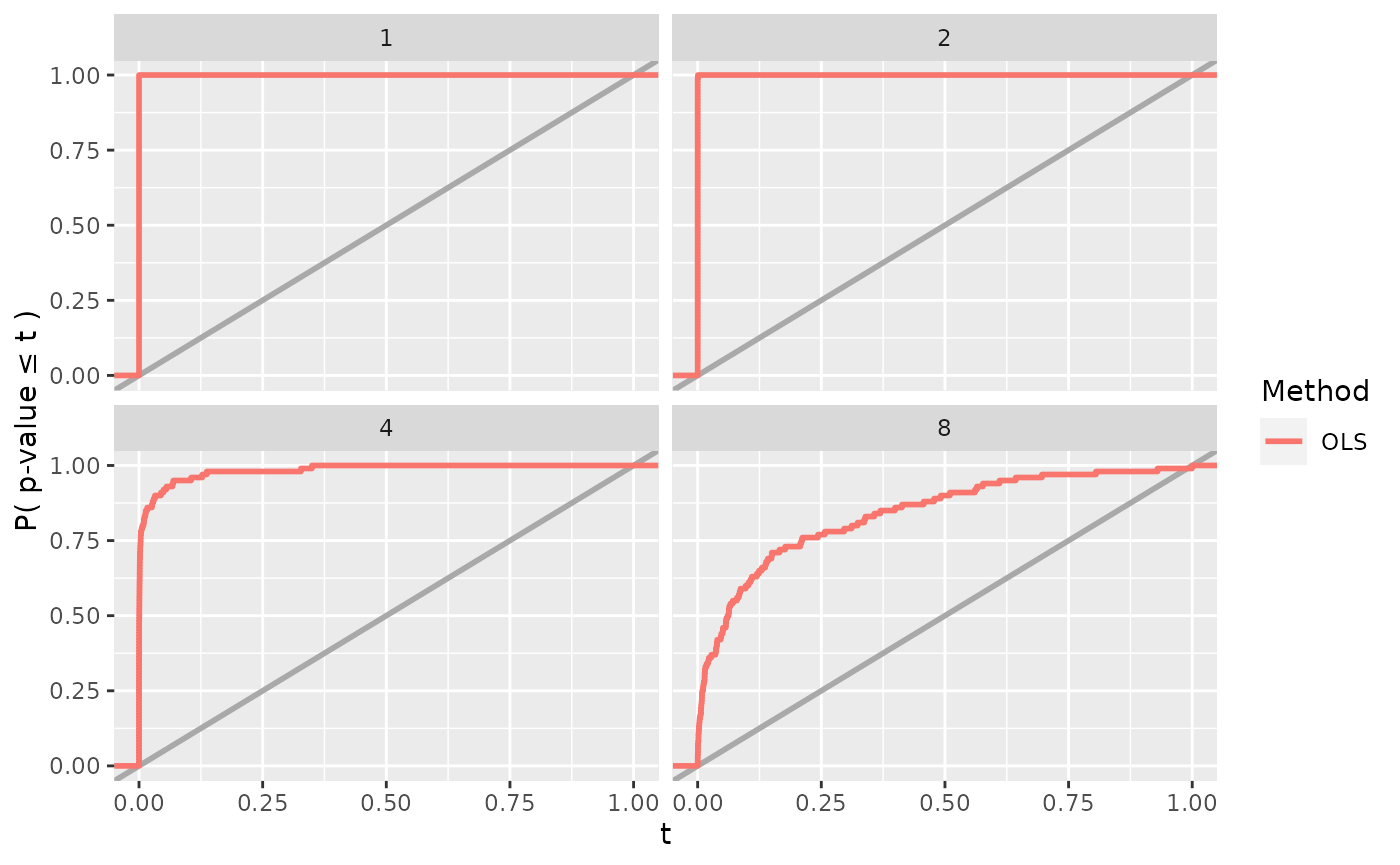
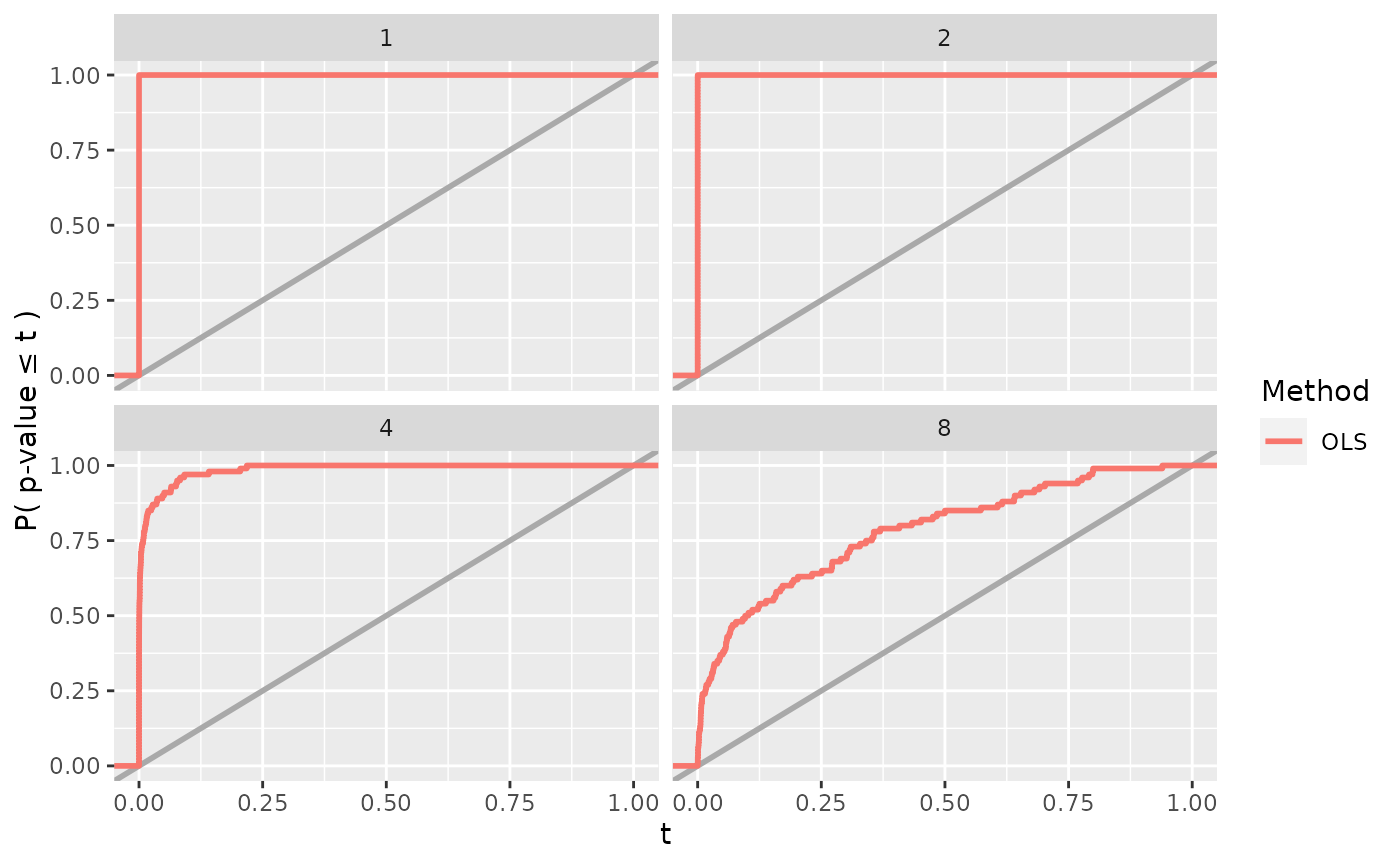
Built site for simChef: 0.0.0.9000@2746a39

diff --git a/articles/simChef.html b/articles/simChef.html
@@ -269,20 +269,20 @@
 <div class="sourceCode" id="cb14"><pre class="downlit sourceCode r">
 <code class="sourceCode R"><span class="va">results</span> <span class="op">&lt;-</span> <span class="va">experiment</span><span class="op">$</span><span class="fu">run</span><span class="op">(</span>n_reps <span class="op">=</span> <span class="fl">100</span>, save <span class="op">=</span> <span class="cn">TRUE</span><span class="op">)</span>
 <span class="co">#&gt; Fitting Linear Regression Experiment...</span>
-<span class="co">#&gt; Fitting completed | time taken: 0.022962 minutes</span>
+<span class="co">#&gt; Fitting completed | time taken: 0.027770 minutes</span>
 <span class="co">#&gt; Saving fit results...</span>
-<span class="co">#&gt; Fit results saved | time taken: 0.011786 seconds</span>
+<span class="co">#&gt; Fit results saved | time taken: 0.013712 seconds</span>
 <span class="co">#&gt; ==============================</span>
 <span class="co">#&gt; Evaluating Linear Regression Experiment...</span>
 <span class="co">#&gt; `summarise()` has grouped output by 'dgp_name'. You can override using the `.groups` argument.</span>
-<span class="co">#&gt; Evaluation completed | time taken: 0.000218 minutes</span>
+<span class="co">#&gt; Evaluation completed | time taken: 0.000239 minutes</span>
 <span class="co">#&gt; Saving eval results...</span>
-<span class="co">#&gt; Eval results saved | time taken: 0.011910 seconds</span>
+<span class="co">#&gt; Eval results saved | time taken: 0.014363 seconds</span>
 <span class="co">#&gt; ==============================</span>
 <span class="co">#&gt; Visualizing Linear Regression Experiment...</span>
-<span class="co">#&gt; Visualization completed | time taken: 0.001718 minutes</span>
+<span class="co">#&gt; Visualization completed | time taken: 0.002102 minutes</span>
 <span class="co">#&gt; Saving visualize results...</span>
-<span class="co">#&gt; Visualize results saved | time taken: 0.050083 seconds</span>
+<span class="co">#&gt; Visualize results saved | time taken: 0.057986 seconds</span>
 <span class="co">#&gt; ==============================</span></code></pre></div>
 <p>or alternatively,</p>
 <div class="sourceCode" id="cb15"><pre class="downlit sourceCode r">
@@ -310,23 +310,23 @@
 <span class="co">#&gt; # A tibble: 100 × 5</span>
 <span class="co">#&gt;    rep   dgp_name            method_name `X1 p-value` `X2 p-value`</span>
 <span class="co">#&gt;    &lt;chr&gt; &lt;chr&gt;               &lt;chr&gt;              &lt;dbl&gt;        &lt;dbl&gt;</span>
-<span class="co">#&gt;  1 1     Linear Gaussian DGP OLS             1.03e-27        0.554</span>
-<span class="co">#&gt;  2 2     Linear Gaussian DGP OLS             3.67e-39        0.212</span>
-<span class="co">#&gt;  3 3     Linear Gaussian DGP OLS             1.15e-26        0.696</span>
-<span class="co">#&gt;  4 4     Linear Gaussian DGP OLS             1.57e-26        0.247</span>
-<span class="co">#&gt;  5 5     Linear Gaussian DGP OLS             6.01e-40        0.225</span>
-<span class="co">#&gt;  6 6     Linear Gaussian DGP OLS             6.60e-34        0.265</span>
-<span class="co">#&gt;  7 7     Linear Gaussian DGP OLS             8.39e-34        0.329</span>
-<span class="co">#&gt;  8 8     Linear Gaussian DGP OLS             1.99e-30        0.466</span>
-<span class="co">#&gt;  9 9     Linear Gaussian DGP OLS             1.19e-30        0.127</span>
-<span class="co">#&gt; 10 10    Linear Gaussian DGP OLS             1.67e-29        0.148</span>
+<span class="co">#&gt;  1 1     Linear Gaussian DGP OLS             1.00e-33        0.226</span>
+<span class="co">#&gt;  2 2     Linear Gaussian DGP OLS             6.29e-32        0.817</span>
+<span class="co">#&gt;  3 3     Linear Gaussian DGP OLS             1.03e-37        0.828</span>
+<span class="co">#&gt;  4 4     Linear Gaussian DGP OLS             1.56e-26        0.458</span>
+<span class="co">#&gt;  5 5     Linear Gaussian DGP OLS             1.04e-31        0.265</span>
+<span class="co">#&gt;  6 6     Linear Gaussian DGP OLS             7.42e-32        0.738</span>
+<span class="co">#&gt;  7 7     Linear Gaussian DGP OLS             3.76e-30        0.266</span>
+<span class="co">#&gt;  8 8     Linear Gaussian DGP OLS             2.21e-24        0.907</span>
+<span class="co">#&gt;  9 9     Linear Gaussian DGP OLS             2.52e-37        0.684</span>
+<span class="co">#&gt; 10 10    Linear Gaussian DGP OLS             6.96e-36        0.157</span>
 <span class="co">#&gt; # … with 90 more rows</span>
 <span class="va">results</span><span class="op">$</span><span class="va">eval_results</span>
 <span class="co">#&gt; $`Rejection Prob. (alpha = 0.1)`</span>
 <span class="co">#&gt; # A tibble: 1 × 4</span>
 <span class="co">#&gt;   dgp_name            method_name `X1 Reject Prob.` `X2 Reject Prob.`</span>
 <span class="co">#&gt;   &lt;chr&gt;               &lt;chr&gt;                   &lt;dbl&gt;             &lt;dbl&gt;</span>
-<span class="co">#&gt; 1 Linear Gaussian DGP OLS                         1              0.08</span>
+<span class="co">#&gt; 1 Linear Gaussian DGP OLS                         1              0.06</span>
 <span class="va">results</span><span class="op">$</span><span class="va">visualize_results</span>
 <span class="co">#&gt; $Power</span></code></pre></div>
 <p><img src="simChef_files/figure-html/unnamed-chunk-17-1.png" width="700"></p>
@@ -374,26 +374,26 @@
 <div class="sourceCode" id="cb21"><pre class="downlit sourceCode r">
 <code class="sourceCode R"><span class="va">vary_results</span> <span class="op">&lt;-</span> <span class="va">experiment</span><span class="op">$</span><span class="fu">run</span><span class="op">(</span>n_reps <span class="op">=</span> <span class="fl">100</span>, save <span class="op">=</span> <span class="cn">TRUE</span><span class="op">)</span>
 <span class="co">#&gt; Fitting Linear Regression Experiment...</span>
-<span class="co">#&gt; Fitting completed | time taken: 0.053896 minutes</span>
+<span class="co">#&gt; Fitting completed | time taken: 0.066805 minutes</span>
 <span class="co">#&gt; Saving fit results...</span>
-<span class="co">#&gt; Fit results saved | time taken: 0.019195 seconds</span>
+<span class="co">#&gt; Fit results saved | time taken: 0.023548 seconds</span>
 <span class="co">#&gt; ==============================</span>
 <span class="co">#&gt; Evaluating Linear Regression Experiment...</span>
-<span class="co">#&gt; Evaluation completed | time taken: 0.000253 minutes</span>
+<span class="co">#&gt; Evaluation completed | time taken: 0.000335 minutes</span>
 <span class="co">#&gt; Saving eval results...</span>
-<span class="co">#&gt; Eval results saved | time taken: 0.018531 seconds</span>
+<span class="co">#&gt; Eval results saved | time taken: 0.023490 seconds</span>
 <span class="co">#&gt; ==============================</span>
 <span class="co">#&gt; Visualizing Linear Regression Experiment...</span>
-<span class="co">#&gt; Visualization completed | time taken: 0.000228 minutes</span>
+<span class="co">#&gt; Visualization completed | time taken: 0.000289 minutes</span>
 <span class="co">#&gt; Saving visualize results...</span>
-<span class="co">#&gt; Visualize results saved | time taken: 0.052218 seconds</span>
+<span class="co">#&gt; Visualize results saved | time taken: 0.068634 seconds</span>
 <span class="co">#&gt; ==============================</span>
 <span class="va">vary_results</span><span class="op">$</span><span class="va">eval_results</span>
 <span class="co">#&gt; $`Rejection Prob. (alpha = 0.1)`</span>
 <span class="co">#&gt; # A tibble: 1 × 4</span>
 <span class="co">#&gt;   dgp_name            method_name `X1 Reject Prob.` `X2 Reject Prob.`</span>
 <span class="co">#&gt;   &lt;chr&gt;               &lt;chr&gt;                   &lt;dbl&gt;             &lt;dbl&gt;</span>
-<span class="co">#&gt; 1 Linear Gaussian DGP OLS                      0.89              0.12</span>
+<span class="co">#&gt; 1 Linear Gaussian DGP OLS                     0.862             0.105</span>
 <span class="va">vary_results</span><span class="op">$</span><span class="va">visualize_results</span>
 <span class="co">#&gt; $Power</span></code></pre></div>
 <p><img src="simChef_files/figure-html/unnamed-chunk-22-1.png" width="700"></p>
@@ -446,29 +446,29 @@
   <span class="fu"><a href="../reference/update_funs.html">update_visualizer</a></span><span class="op">(</span><span class="va">power_plot</span>, name <span class="op">=</span> <span class="st">"Power"</span><span class="op">)</span> <span class="op">%&gt;%</span>
   <span class="fu"><a href="../reference/run_experiment.html">run_experiment</a></span><span class="op">(</span>n_reps <span class="op">=</span> <span class="fl">100</span>, save <span class="op">=</span> <span class="cn">TRUE</span><span class="op">)</span>
 <span class="co">#&gt; Fitting Linear Regression Experiment...</span>
-<span class="co">#&gt; Fitting completed | time taken: 0.053476 minutes</span>
+<span class="co">#&gt; Fitting completed | time taken: 0.064544 minutes</span>
 <span class="co">#&gt; Saving fit results...</span>
-<span class="co">#&gt; Fit results saved | time taken: 0.018785 seconds</span>
+<span class="co">#&gt; Fit results saved | time taken: 0.023282 seconds</span>
 <span class="co">#&gt; ==============================</span>
 <span class="co">#&gt; Evaluating Linear Regression Experiment...</span>
-<span class="co">#&gt; Evaluation completed | time taken: 0.000160 minutes</span>
+<span class="co">#&gt; Evaluation completed | time taken: 0.000203 minutes</span>
 <span class="co">#&gt; Saving eval results...</span>
-<span class="co">#&gt; Eval results saved | time taken: 0.018175 seconds</span>
+<span class="co">#&gt; Eval results saved | time taken: 0.023239 seconds</span>
 <span class="co">#&gt; ==============================</span>
 <span class="co">#&gt; Visualizing Linear Regression Experiment...</span>
-<span class="co">#&gt; Visualization completed | time taken: 0.000419 minutes</span>
+<span class="co">#&gt; Visualization completed | time taken: 0.000491 minutes</span>
 <span class="co">#&gt; Saving visualize results...</span>
-<span class="co">#&gt; Visualize results saved | time taken: 0.065096 seconds</span>
+<span class="co">#&gt; Visualize results saved | time taken: 0.076091 seconds</span>
 <span class="co">#&gt; ==============================</span>
 <span class="va">vary_results</span><span class="op">$</span><span class="va">eval_results</span>
 <span class="co">#&gt; $`Rejection Prob. (alpha = 0.1)`</span>
 <span class="co">#&gt; # A tibble: 4 × 5</span>
 <span class="co">#&gt;   dgp_name            method_name sigma `X1 Reject Prob.` `X2 Reject Prob.`</span>
 <span class="co">#&gt;   &lt;chr&gt;               &lt;chr&gt;       &lt;dbl&gt;             &lt;dbl&gt;             &lt;dbl&gt;</span>
-<span class="co">#&gt; 1 Linear Gaussian DGP OLS             1              1                 0.06</span>
-<span class="co">#&gt; 2 Linear Gaussian DGP OLS             2              1                 0.14</span>
-<span class="co">#&gt; 3 Linear Gaussian DGP OLS             4              0.95              0.15</span>
-<span class="co">#&gt; 4 Linear Gaussian DGP OLS             8              0.6               0.13</span>
+<span class="co">#&gt; 1 Linear Gaussian DGP OLS             1              1                 0.08</span>
+<span class="co">#&gt; 2 Linear Gaussian DGP OLS             2              1                 0.09</span>
+<span class="co">#&gt; 3 Linear Gaussian DGP OLS             4              0.97              0.11</span>
+<span class="co">#&gt; 4 Linear Gaussian DGP OLS             8              0.5               0.16</span>
 <span class="va">vary_results</span><span class="op">$</span><span class="va">visualize_results</span>
 <span class="co">#&gt; $Power</span></code></pre></div>
 <p><img src="simChef_files/figure-html/unnamed-chunk-25-1.png" width="700"></p>
@@ -519,19 +519,19 @@
                               <span class="fu"><a href="https://rdrr.io/r/base/c.html">c</a></span><span class="op">(</span><span class="fl">1</span>, <span class="fl">2</span><span class="op">)</span><span class="op">)</span><span class="op">)</span> <span class="op">%&gt;%</span>
   <span class="fu"><a href="../reference/run_experiment.html">run_experiment</a></span><span class="op">(</span>n_reps <span class="op">=</span> <span class="fl">100</span>, save <span class="op">=</span> <span class="cn">TRUE</span><span class="op">)</span>
 <span class="co">#&gt; Fitting Linear Regression Experiment...</span>
-<span class="co">#&gt; Fitting completed | time taken: 0.120408 minutes</span>
+<span class="co">#&gt; Fitting completed | time taken: 0.156717 minutes</span>
 <span class="co">#&gt; Saving fit results...</span>
-<span class="co">#&gt; Fit results saved | time taken: 0.023126 seconds</span>
+<span class="co">#&gt; Fit results saved | time taken: 0.030264 seconds</span>
 <span class="co">#&gt; ==============================</span>
 <span class="co">#&gt; Evaluating Linear Regression Experiment...</span>
-<span class="co">#&gt; Evaluation completed | time taken: 0.000269 minutes</span>
+<span class="co">#&gt; Evaluation completed | time taken: 0.000336 minutes</span>
 <span class="co">#&gt; Saving eval results...</span>
-<span class="co">#&gt; Eval results saved | time taken: 0.021551 seconds</span>
+<span class="co">#&gt; Eval results saved | time taken: 0.030547 seconds</span>
 <span class="co">#&gt; ==============================</span>
 <span class="co">#&gt; Visualizing Linear Regression Experiment...</span>
-<span class="co">#&gt; Visualization completed | time taken: 0.003542 minutes</span>
+<span class="co">#&gt; Visualization completed | time taken: 0.005092 minutes</span>
 <span class="co">#&gt; Saving visualize results...</span>
-<span class="co">#&gt; Visualize results saved | time taken: 0.099208 seconds</span>
+<span class="co">#&gt; Visualize results saved | time taken: 0.131872 seconds</span>
 <span class="co">#&gt; ==============================</span>
 <span class="co"># run experiment across values of rho (correlation)</span>
 <span class="va">vary_cor_results</span> <span class="op">&lt;-</span> <span class="va">experiment</span> <span class="op">%&gt;%</span>
@@ -540,19 +540,19 @@
                   rho <span class="op">=</span> <span class="fu"><a href="https://rdrr.io/r/base/c.html">c</a></span><span class="op">(</span><span class="fl">0</span>, <span class="fl">0.2</span>, <span class="fl">0.5</span>, <span class="fl">0.9</span><span class="op">)</span><span class="op">)</span> <span class="op">%&gt;%</span>
   <span class="fu"><a href="../reference/run_experiment.html">run_experiment</a></span><span class="op">(</span>n_reps <span class="op">=</span> <span class="fl">100</span>, save <span class="op">=</span> <span class="cn">TRUE</span><span class="op">)</span>
 <span class="co">#&gt; Fitting Linear Regression Experiment...</span>
-<span class="co">#&gt; Fitting completed | time taken: 0.052274 minutes</span>
+<span class="co">#&gt; Fitting completed | time taken: 0.065844 minutes</span>
 <span class="co">#&gt; Saving fit results...</span>
-<span class="co">#&gt; Fit results saved | time taken: 0.023950 seconds</span>
+<span class="co">#&gt; Fit results saved | time taken: 0.033174 seconds</span>
 <span class="co">#&gt; ==============================</span>
 <span class="co">#&gt; Evaluating Linear Regression Experiment...</span>
-<span class="co">#&gt; Evaluation completed | time taken: 0.000159 minutes</span>
+<span class="co">#&gt; Evaluation completed | time taken: 0.000253 minutes</span>
 <span class="co">#&gt; Saving eval results...</span>
-<span class="co">#&gt; Eval results saved | time taken: 0.023859 seconds</span>
+<span class="co">#&gt; Eval results saved | time taken: 0.032640 seconds</span>
 <span class="co">#&gt; ==============================</span>
 <span class="co">#&gt; Visualizing Linear Regression Experiment...</span>
-<span class="co">#&gt; Visualization completed | time taken: 0.001762 minutes</span>
+<span class="co">#&gt; Visualization completed | time taken: 0.002327 minutes</span>
 <span class="co">#&gt; Saving visualize results...</span>
-<span class="co">#&gt; Visualize results saved | time taken: 0.099330 seconds</span>
+<span class="co">#&gt; Visualize results saved | time taken: 0.130792 seconds</span>
 <span class="co">#&gt; ==============================</span></code></pre></div>
 </div>
 <div id="experiment-as-an-r6-class" class="section level2">
@@ -705,15 +705,15 @@
 <div class="sourceCode" id="cb36"><pre class="downlit sourceCode r">
 <code class="sourceCode R"><span class="va">fit_results</span> <span class="op">&lt;-</span> <span class="va">experiment</span><span class="op">$</span><span class="fu">fit</span><span class="op">(</span>n_reps <span class="op">=</span> <span class="fl">100</span><span class="op">)</span>
 <span class="co">#&gt; Fitting Linear Regression Experiment...</span>
-<span class="co">#&gt; Fitting completed | time taken: 0.055936 minutes</span>
+<span class="co">#&gt; Fitting completed | time taken: 0.069042 minutes</span>
 <span class="co">#&gt; ==============================</span>
 <span class="va">eval_results</span> <span class="op">&lt;-</span> <span class="va">experiment</span><span class="op">$</span><span class="fu">evaluate</span><span class="op">(</span><span class="va">fit_results</span><span class="op">)</span>
 <span class="co">#&gt; Evaluating Linear Regression Experiment...</span>
-<span class="co">#&gt; Evaluation completed | time taken: 0.000169 minutes</span>
+<span class="co">#&gt; Evaluation completed | time taken: 0.000197 minutes</span>
 <span class="co">#&gt; ==============================</span>
 <span class="va">visualize_results</span> <span class="op">&lt;-</span> <span class="va">experiment</span><span class="op">$</span><span class="fu">visualize</span><span class="op">(</span><span class="va">fit_results</span>, <span class="va">eval_results</span><span class="op">)</span>
 <span class="co">#&gt; Visualizing Linear Regression Experiment...</span>
-<span class="co">#&gt; Visualization completed | time taken: 0.001649 minutes</span>
+<span class="co">#&gt; Visualization completed | time taken: 0.001909 minutes</span>
 <span class="co">#&gt; ==============================</span></code></pre></div>
 <p>or alternatively,</p>
 <div class="sourceCode" id="cb37"><pre class="downlit sourceCode r">
@@ -730,38 +730,38 @@
 <span class="co">#&gt;  $ Linear Gaussian DGP:List of 4</span>
 <span class="co">#&gt;   ..$ :List of 1</span>
 <span class="co">#&gt;   .. ..$ :List of 2</span>
-<span class="co">#&gt;   .. .. ..$ X: num [1:200, 1:2] -0.0532 0.5892 -1.384 -1.4238 -0.1118 ...</span>
+<span class="co">#&gt;   .. .. ..$ X: num [1:200, 1:2] 0.11 0.693 0.933 -0.369 0.106 ...</span>
 <span class="co">#&gt;   .. .. .. ..- attr(*, "dimnames")=List of 2</span>
 <span class="co">#&gt;   .. .. .. .. ..$ : NULL</span>
 <span class="co">#&gt;   .. .. .. .. ..$ : NULL</span>
-<span class="co">#&gt;   .. .. ..$ y: num [1:200, 1] 0.063 0.416 -1.143 -0.484 -0.494 ...</span>
+<span class="co">#&gt;   .. .. ..$ y: num [1:200, 1] 0.285 -1.11 0.659 1.071 0.753 ...</span>
 <span class="co">#&gt;   .. ..- attr(*, "params")=List of 1</span>
 <span class="co">#&gt;   .. .. ..$ sigma: num 1</span>
 <span class="co">#&gt;   ..$ :List of 1</span>
 <span class="co">#&gt;   .. ..$ :List of 2</span>
-<span class="co">#&gt;   .. .. ..$ X: num [1:200, 1:2] -0.114 0.102 0.499 0.594 -0.499 ...</span>
+<span class="co">#&gt;   .. .. ..$ X: num [1:200, 1:2] 0.221 2.18 -0.349 0.357 0.601 ...</span>
 <span class="co">#&gt;   .. .. .. ..- attr(*, "dimnames")=List of 2</span>
 <span class="co">#&gt;   .. .. .. .. ..$ : NULL</span>
 <span class="co">#&gt;   .. .. .. .. ..$ : NULL</span>
-<span class="co">#&gt;   .. .. ..$ y: num [1:200, 1] -0.426 1.428 -1.572 2.565 -0.237 ...</span>
+<span class="co">#&gt;   .. .. ..$ y: num [1:200, 1] -0.455 2.769 -0.48 -0.526 1.022 ...</span>
 <span class="co">#&gt;   .. ..- attr(*, "params")=List of 1</span>
 <span class="co">#&gt;   .. .. ..$ sigma: num 2</span>
 <span class="co">#&gt;   ..$ :List of 1</span>
 <span class="co">#&gt;   .. ..$ :List of 2</span>
-<span class="co">#&gt;   .. .. ..$ X: num [1:200, 1:2] 0.579 -0.23 0.439 -0.186 1.24 ...</span>
+<span class="co">#&gt;   .. .. ..$ X: num [1:200, 1:2] 1.923 0.213 1.62 -1.595 0.752 ...</span>
 <span class="co">#&gt;   .. .. .. ..- attr(*, "dimnames")=List of 2</span>
 <span class="co">#&gt;   .. .. .. .. ..$ : NULL</span>
 <span class="co">#&gt;   .. .. .. .. ..$ : NULL</span>
-<span class="co">#&gt;   .. .. ..$ y: num [1:200, 1] -1.8 2.09 -4.4 2.64 3.27 ...</span>
+<span class="co">#&gt;   .. .. ..$ y: num [1:200, 1] 1.567 -2.16 2.782 -0.509 2.404 ...</span>
 <span class="co">#&gt;   .. ..- attr(*, "params")=List of 1</span>
 <span class="co">#&gt;   .. .. ..$ sigma: num 4</span>
 <span class="co">#&gt;   ..$ :List of 1</span>
 <span class="co">#&gt;   .. ..$ :List of 2</span>
-<span class="co">#&gt;   .. .. ..$ X: num [1:200, 1:2] -0.04463 -0.37957 0.00572 -0.37883 -1.00282 ...</span>
+<span class="co">#&gt;   .. .. ..$ X: num [1:200, 1:2] -1.693 -0.655 -1.768 0.939 -1.061 ...</span>
 <span class="co">#&gt;   .. .. .. ..- attr(*, "dimnames")=List of 2</span>
 <span class="co">#&gt;   .. .. .. .. ..$ : NULL</span>
 <span class="co">#&gt;   .. .. .. .. ..$ : NULL</span>
-<span class="co">#&gt;   .. .. ..$ y: num [1:200, 1] 10.51 4.62 -4.38 4.03 -17.46 ...</span>
+<span class="co">#&gt;   .. .. ..$ y: num [1:200, 1] 6.19 -3.34 3.74 -2.52 -7.56 ...</span>
 <span class="co">#&gt;   .. ..- attr(*, "params")=List of 1</span>
 <span class="co">#&gt;   .. .. ..$ sigma: num 8</span></code></pre></div>
 <p>or alternatively,</p>

diff --git a/articles/parallel.html b/articles/parallel.html
@@ -235,7 +235,7 @@
   <span class="op">)</span>
 <span class="op">)</span>
 <span class="co">#&gt; Fitting base...</span>
-<span class="co">#&gt; Fitting completed | time taken: 0.784546 minutes</span>
+<span class="co">#&gt; Fitting completed | time taken: 0.944755 minutes</span>
 <span class="co">#&gt; ==============================</span>
 <span class="co">#&gt; # A tibble: 136 × 16</span>
 <span class="co">#&gt;      rep dgp_name   method_name     p   rho sparsity nonzero_coeff alpha term   </span>
